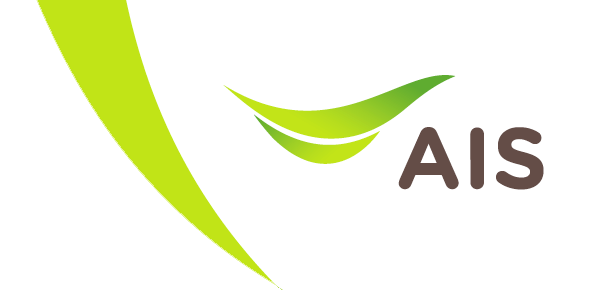
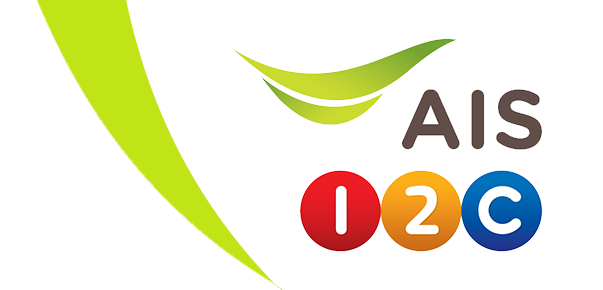
Replace homepage AIS with image and added recaptcha to details.php

Changed region(s): [[0.3881, 0.1241, 0.9254, 0.869]]

diff --git a/index.html b/index.html
@@ -17,17 +17,21 @@
   <link rel="stylesheet" href="css/monkey_baby.css">
   <link rel="stylesheet" href="css/la_home.css">
   <link rel="stylesheet" href="css/la_login.css">
+
+  <!-- recaptcha -->
+  <script src='https://www.google.com/recaptcha/api.js'></script>
+
   <!-- Hotjar Tracking Code for lightningthunder.github.io -->
-<script>
-    (function(h,o,t,j,a,r){
-        h.hj=h.hj||function(){(h.hj.q=h.hj.q||[]).push(arguments)};
-        h._hjSettings={hjid:56218,hjsv:5};
-        a=o.getElementsByTagName('head')[0];
-        r=o.createElement('script');r.async=1;
-        r.src=t+h._hjSettings.hjid+j+h._hjSettings.hjsv;
-        a.appendChild(r);
-    })(window,document,'//static.hotjar.com/c/hotjar-','.js?sv=');
-</script>
+  <script>
+      (function(h,o,t,j,a,r){
+          h.hj=h.hj||function(){(h.hj.q=h.hj.q||[]).push(arguments)};
+          h._hjSettings={hjid:56218,hjsv:5};
+          a=o.getElementsByTagName('head')[0];
+          r=o.createElement('script');r.async=1;
+          r.src=t+h._hjSettings.hjid+j+h._hjSettings.hjsv;
+          a.appendChild(r);
+      })(window,document,'//static.hotjar.com/c/hotjar-','.js?sv=');
+  </script>
 </head>
 <body>
    
@@ -589,20 +593,7 @@
   <div class="container padding-top-20">
     <div class="row promo external-asset">
       <div class="col-xs-12 col-sm-12 col-md-12 col-lg-12">
-        <div class="content ext-ad-banner clearfix">
-          <div class="col-xs-12 col-sm-12 col-md-12">
-            <h4>AIS Traveller's SIM users enjoy 10% off</h4>
-            <p>Enjoy discounts on all tours when you verify your phone number.</p>
-          </div>
-          <div class="col-xs-12 col-sm-12 col-md-4 clearfix form-group ext-ad-ais required">
-            <input class="form-control" size="4" type="tel" placeholder="Enter your 10 digit number">
-            <button class="btn btn-default btn-primary btn-ext-ad-ais">
-              Generate Code
-            </button>
-          </div>
-          <div class="col-xs-12 col-lg-2">
-          </div>
-        </div>
+        <img src="img/la_ext_ais_banner_home.png" width="1150" />
       </div>
     </div>
   </div>

diff --git a/css/la_external-privilege.css b/css/la_external-privilege.css
@@ -21,7 +21,7 @@
 	color: #8b2199; /*AIS Purple*/
 	color: #333;
 	font-weight: bolder;
-	font-size: 1.35em;
+	font-size: 1.5em;
 	text-transform: uppercase;
 	margin-bottom: 5px;
 	margin-top: 15px;
@@ -29,7 +29,7 @@
 
 .ext-ad-banner p
 {
-	color: #fff;
+	color: #eee;
 	font-size: 1.05em;
 }
 
@@ -44,6 +44,7 @@
 	display: inline-block;
 	box-shadow: none;
 	margin: 2px;
+	float: left;
 }
 
 .btn-ext-ad-ais

diff --git a/css/la_global.css b/css/la_global.css
@@ -376,6 +376,11 @@ div#basicModal.modal.fade.in
 	text-align: center;
 }
 
+.g-recaptcha
+{
+	display: inline-block;
+}
+
 @media (max-width: 991px) {
 
 

diff --git a/module/module_ais.php b/module/module_ais.php
@@ -5,6 +5,7 @@
 	</div>
 	<div class="col-xs-12 col-sm-12 col-md-4 clearfix form-group ext-ad-ais required" id="ais-gen-code">
 		<input class="form-control" size="4" type="tel" placeholder="Enter your 10 digit number">
+		<div class="g-recaptcha" data-sitekey="6LeMPwsTAAAAAPuggO2YzK_EkZDv0s24TQ7fJsV-"></div>
 		<button class="btn btn-default btn-primary btn-ext-ad-ais">Generate Code</button>
 	</div>
 	<div class="col-xs-12 col-lg-2">
